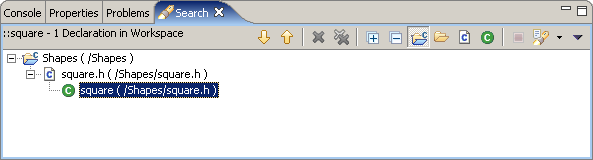
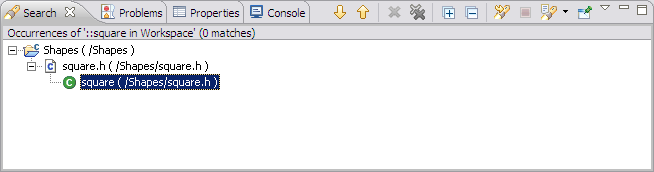
[Bug 310371] Revised Properties and Search view pages.

diff --git a/all/org.eclipse.cdt.doc.user/reference/cdt_u_search_view.htm b/all/org.eclipse.cdt.doc.user/reference/cdt_u_search_view.htm
@@ -6,11 +6,12 @@
 	<meta http-equiv="Content-Type" content="text/html; charset=utf-8">
 	<title>Search view</title>
 	<link rel="stylesheet" type="text/css" href="../help.css">
+	<script language="JavaScript" src="PLUGINS_ROOT/org.eclipse.help/livehelp.js"></script>
 </head>
 <body>
 
 <h1>Search view</h1>
-<p>Any matches are reported in the <strong>Search</strong> view. </p>
+<p>Any matches are reported in the <img src="../images/command_link.png" border="0" alt="" /> <a class="command-link" href='javascript:executeCommand("org.eclipse.ui.views.showView(org.eclipse.ui.views.showView.viewId=org.eclipse.search.ui.views.SearchView)")'>Search</a> view. </p>
 <p><img src="../images/searchView.png" alt="Search View" ></p>
 
 <p>When you have completed a search and have results in the 
@@ -33,54 +34,72 @@ you can put the focus on that view and get more options on the
  selection. </p>
 
  
-<h2>Search view Toolbar</h2>
+<h2>Search view toolbar options</h2>
 
-<table border="1" cellpadding="1" cellspacing="0">
+<table border="1" cellpadding="4" cellspacing="0" bordercolor="#DDDDDD" >
 	<tr><th>Icon</th><th>Command</th><th>Description</th></tr>
 	<tr>
 		<td align="center" valign="top"><img src="../images/icon_next.png" alt="Next icon"></td>	
-		<td valign="top">Next</td>
+		<td valign="top"><strong>Next</strong></td>
 		<td valign="top">Navigates to the next search result.</td>
 	</tr>
 	<tr>
 		<td align="center" valign="top"><img src="../images/icon_previous.png" alt="Previous icon"></td>	
-		<td valign="top">Previous</td>
+		<td valign="top"><strong>Previous</strong></td>
 		<td valign="top">Navigates to the previous search result.</td>
 	</tr>
 	<tr>
 		<td align="center" valign="top"><img src="../images/icon_remove.png" alt="Remote the Selected Matches icon"></td>
-		<td valign="top">Remove the Selected Matches</td>
+		<td valign="top"><strong>Remove Selected Matches (Delete)</strong></td>
 		<td valign="top">Removes user selected matches from the search console.</td>
 	</tr>
 	<tr>
 		<td align="center" valign="top"><img src="../images/icon_con_rem_all_term.png" alt="Remove all Matches icon"></td>
-		<td valign="top">Remove All Matches</td>
+		<td valign="top"><strong>Remove All Matches</strong></td>
 		<td valign="top">Clears the search console.</td>
 	</tr>
 	<tr>
-		<td align="center" valign="top"><img src="../images/icon_con_terminate.png" alt="Terminate icon"></td>	
-		<td valign="top">Terminate</td>
+		<td align="center" valign="top"><img src="../images/icon_expand_all.png" alt="Expand All icon"></td>	
+		<td valign="top"><strong>Expand All</strong></td>
+		<td valign="top">Expands all search results.</td>
+	</tr>
+	<tr>
+		<td align="center" valign="top"><img src="../images/icon_collapse_all.png" alt="Collapse All icon"></td>	
+		<td valign="top"><strong>Collapse All</strong></td>
+		<td valign="top">Collapses all search results.</td>
+	</tr>
+	<tr>
+		<td align="center" valign="top"><img src="../images/icon_con_terminate.png" alt="Cancel Search icon"></td>	
+		<td valign="top"><strong>Cancel Current Search</strong></td>
 		<td valign="top">Terminates the current search.</td>
 	</tr>
 	<tr>
+		<td align="center" valign="top"><img src="../images/icon_repeat_search.png" alt="Repeat Search icon"></td>	
+		<td valign="top"><strong>Run the Current Search Again</strong></td>
+		<td valign="top">Repeat the search using the same criteria.</td>
+	</tr>
+	<tr>
 		<td align="center" valign="top"><img src="../images/icon_show_prev_search.png" alt="Show Previous Searches icon"></td>
-		<td valign="top">Show Previous Searches</td>
+		<td valign="top"><strong>Show Previous Searches</strong></td>
 		<td valign="top">Shows the list of previously run searches which can be reselected.</td>
 	</tr>
 	<tr>
+		<td align="center" valign="top"><img src="../images/icon_pin.png" alt="Pin view icon"></td>
+		<td valign="top"><strong>Pin the Search View</strong></td>
+		<td valign="top">Forces the Search view to remain on top of other views in the workbench area.</td>
+	</tr>
+	<tr>
 		<td align="center" valign="top"><img src="../images/icon_menu.png" alt="Menu icon"></td>
-		<td valign="top">Menu</td>
-		<td valign="top">Lists two selectable view layouts for search results: Flat and Heirarchical.</td>
-	</tr>
-	<tr>
-		<td align="center" valign="top"><img src="../images/icon_con_min.png" alt="Minimize icon"></td>
-		<td valign="top">Minimize Console</td>
-		<td valign="top">Minimizes the Console view.</td>
-	</tr>
-	<tr>
-		<td align="center" valign="top"><img src="../images/icon_con_max.png" alt="Maximize icon"></td>
-		<td valign="top">Maximize Console</td>
-		<td valign="top">Maximizes the Console view.</td>
+		<td valign="top"><strong>Menu</strong></td>
+		<td valign="top">Displays assorted options available for the Search view, including: <br />
+		<ul>
+			<li>Show as List</li>
+			<li>Show as Tree (default)</li>
+			<li>Hide Potential Method Calls</li>
+			<li>Filters...</li>
+			<li>Show Enclosing Definitions</li>
+		</ul>
+		</td>
 	</tr>
 </table>
 
@@ -96,9 +115,11 @@ you can put the focus on that view and get more options on the
 <a href="cdt_u_m_search.htm">Search action</a><br>
 <a href="cdt_u_search.htm">Search dialog</a></p>
 
+<hr />
 <p>
-<img src="../images/rh03_04.gif" ALT="Red Hat Copyright Statement">  <br>
-<img src="../images/ng00_07.gif" ALT="IBM Copyright Statement" >  
+<img src="../images/rh03_04.gif" ALT="Red Hat Copyright Statement">  <br />
+<img src="../images/ng00_07.gif" ALT="IBM Copyright Statement" > <br />
+<img src="../images/nokiaCopyright.png" ALT="Nokia Copyright Statement" >  
 </p>
 </body>
 

diff --git a/all/org.eclipse.cdt.doc.user/reference/cdt_u_properties_view.htm b/all/org.eclipse.cdt.doc.user/reference/cdt_u_properties_view.htm
@@ -6,65 +6,56 @@
 	<meta http-equiv="Content-Type" content="text/html; charset=iso-8859-1">
 	<title>Properties view</title>
 	<link rel="stylesheet" type="text/css" href="../help.css">
+	<script language="JavaScript" src="PLUGINS_ROOT/org.eclipse.help/livehelp.js"></script>
 </head>
 
 <body>
 <h1>Properties view</h1>
-<p>The properties view displays property names and values for a selected item such as a resource. </p>
+<p>The <img src="../images/command_link.png" border="0" alt="" /> <a class="command-link" href='javascript:executeCommand("org.eclipse.ui.views.showView(org.eclipse.ui.views.showView.viewId=org.eclipse.ui.views.PropertySheet)")'>Properties</a> view displays property names and values for a selected item such as a resource. </p>
 <p><img src="../images/view_properties.png" alt="Properties View"></p>
 <p>Toolbar buttons allow you to toggle to display properties by category or to filter advanced properties. Another toolbar button allows you to restore the selected property to its default value.</p>
-<p>To see more detailed information about a resource than the Properties view gives you, right-click the resource name in the Project Explorer view and select Properties from the pop-up menu.</p>
+<p>To see more detailed information about a resource than the Properties view gives you, right-click the resource name in the <a href="cdt_u_project_explorer_view.htm">Project Explorer</a> view and select Properties from the pop-up menu.</p>
 
 
-<h2>Toolbar</h2>
+<h2>Properties view toolbar options</h2>
+<p>The table below lists the toolbar options displayed in the Properties view.</p>
 
-<p><table border="1" cellpadding="3" cellspacing="0">
+<p><table border="1" cellpadding="4" cellspacing="0" bordercolor="#DDDDDD" width="600px" >
+	<colgroup>
+		<col width="5%" valign="top" >
+		<col width="20%" valign="top" >
+		<col width="75%" valign="top" >
+	</colgroup>
  	<tr>
 		<th>Icon</th>
 		<th>Name</th>	
 		<th>Description</th>
 	 </tr>
 	<tr>
-	<td align="center" valign="top"><img src="../images/icon_show_categories.png" alt="Show Categories Icon"></td>
-	<td valign="top"><strong>Show Categories</strong></td>
-	<td valign="top">This command, when selected, lists the properties in sorted categories.</td>
-	</tr>
-	<tr>
-		<td align="center" valign="top"><img src="../images/icon_show_advanced_prop.png" alt="Show Advanced Properties Icon"></td>
-		<td valign="top"><strong>Show Advanced Properties</strong></td>
-		<td valign="top">This command, when selected, shows advanced properties.  By default, advanced properties are filtered.</td>
-	</tr>
-	<tr>
-	<td align="center" valign="top"><img src="../images/icon_restore_default.png" alt="Restore Default Icon"></td>
-		<td valign="top"><strong>Restore Default</strong></td>
-		<td valign="top">This command returns any modified properties to their default values.</td>
+	<td align="center" valign="top"><img src="../images/icon_pin.png" alt="Pin Icon"></td>
+		<td valign="top"><strong>Pin Properties View</strong></td>
+		<td valign="top">Forces the Properties view to remain on top of other views in the workbench area.</td>
 	</tr>
 	<tr>
 		<td align="center" valign="top"><img src="../images/icon_menu.png" alt="Menu Icon"></td>
-		<td valign="top"><strong>Menu</strong></td>
-		<td valign="top">Click the black upside-down triangle icon to open a menu of items specific to the Properties view.<br><br>
-									<dl>
-										<p><dt>Show Categories</dt>
-											<dd>See the toolbar item description above.</dd></p>
-										<p><dt>Show Advanced Properties</dt>
-											<dd>See the toolbar item description above.</dd></p>
-									</dl></td>
+		<td valign="top"><strong>View Menu</strong></td>
+		<td valign="top">Click the white upside-down triangle icon to open a menu of items specific to the Properties view.<br>
+					<dl>
+						<p><dt>New Properties View</dt>
+							<dd>Create a new pane within the Properties view. Panes can be selected using the names that appear on the left edge.</dd></p>
+						<p><dt>Pin to Selection</dt>
+							<dd>Pin the current selection to remain within the viewable area of the Properties view.</dd></p>
+					</dl></td>
 	</tr>	
-	<tr>
-		<td align="center" valign="top"><img src="../images/icon_con_min.png" alt="Minimize icon"></td>
-		<td valign="top"><strong>MinimizeConsole</strong></td>
-		<td valign="top">Minimizes the Console view.</td>
-	</tr>
-	<tr>
-		<td align="center" valign="top"><img src="../images/icon_con_max.png" alt="Maximize icon"></td>
-		<td valign="top"><strong>Maximize Console</strong></td>
-		<td valign="top">Maximizes the Console view.</td>
-	</tr>
 
 </table></p>
 
+<p><img src="../images/ngref.gif" ALT="Related references" width="143" height="21">
+<br><a href="../reference/cdt_o_ref.htm">C/C++ Views</a></p>
+<hr />
 <p>
-<img src="../images/ng00_07.gif" ALT=" IBM Copyright Statement" >
+<img src="../images/ng00_07.gif" ALT=" IBM Copyright Statement" > <br />
+<img src="../images/nokiaCopyright.png" ALT=" Nokia Copyright Statement" >
 </p>
 
 </bODY>
